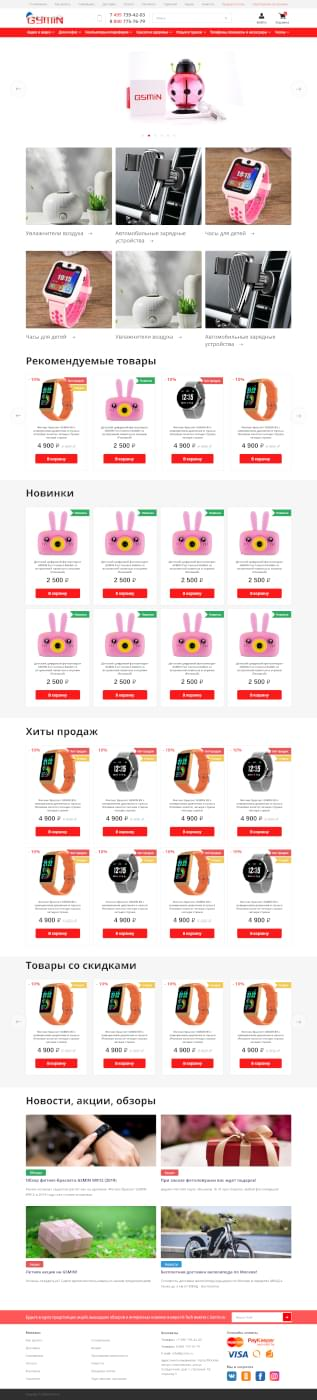
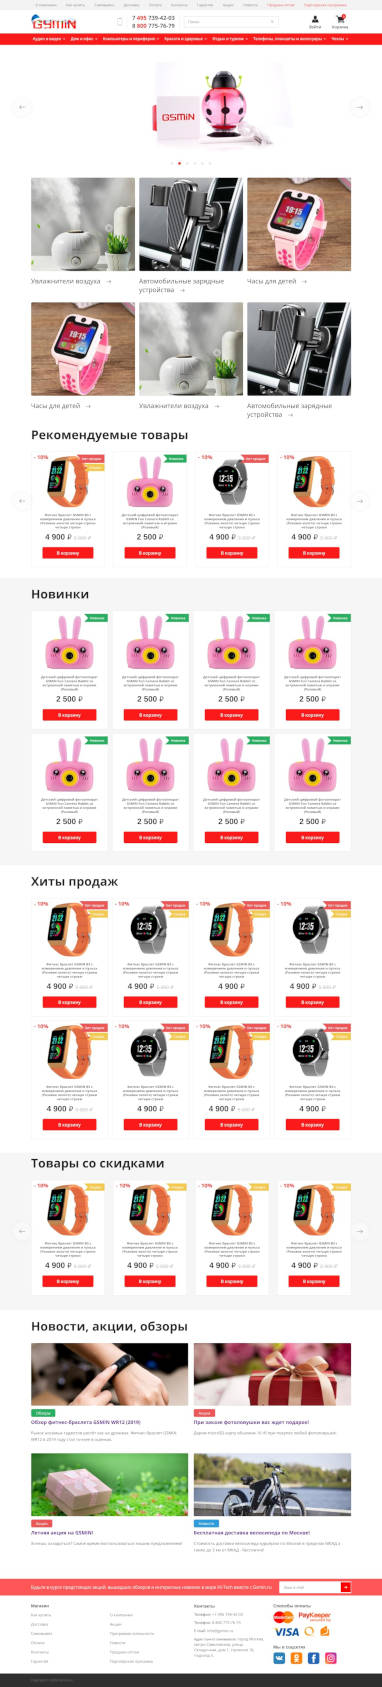
frid to flex + different titles for all .html

diff --git a/css/style.css b/css/style.css
@@ -8,7 +8,7 @@
  * 2. Prevent adjustments of font size after orientation changes in iOS.
  */
 
-html {
+ html {
   line-height: 1.15;
   /* 1 */
   -webkit-text-size-adjust: 100%;
@@ -581,11 +581,9 @@ body {
 }
 
 .item {
-  display: -ms-grid;
-  display: grid;
-  -ms-grid-rows: 1fr;
-  -ms-grid-columns: 35% 10px 1fr;
-      grid-template: 1fr / 35% 1fr;
+  display: -webkit-box;
+  display: -ms-flexbox;
+  display: flex;
   -webkit-column-gap: 10px;
      -moz-column-gap: 10px;
           column-gap: 10px;
@@ -594,13 +592,10 @@ body {
   margin: 0 0 20px 0;
 }
 
-.sites__item:last-child {
-  -ms-grid-rows: 1fr;
-  -ms-grid-columns: 1fr;
-      grid-template: 1fr / 1fr;
-}
-
 .item__image {
+  -webkit-box-flex: 0;
+      -ms-flex: 0 0 35%;
+          flex: 0 0 35%;
   overflow: hidden;
   position: relative;
 }
@@ -617,9 +612,20 @@ body {
 
 .item__description {
   padding: 10px 10px 20px 0;
-  display: -ms-grid;
-  display: grid;
+  display: -webkit-box;
+  display: -ms-flexbox;
+  display: flex;
+  -webkit-box-orient: vertical;
+  -webkit-box-direction: normal;
+      -ms-flex-direction: column;
+          flex-direction: column;
   row-gap: 10px;
+}
+
+.sites__item:last-child {
+  -webkit-box-pack: center;
+      -ms-flex-pack: center;
+          justify-content: center;
 }
 
 .item__lable {
@@ -640,27 +646,39 @@ body {
 .item__link {
   width: 120px;
   height: 25px;
-  display: -ms-grid;
-  display: grid;
+  display: -webkit-box;
+  display: -ms-flexbox;
+  display: flex;
   -webkit-box-align: center;
       -ms-flex-align: center;
           align-items: center;
-  justify-items: center;
+  -webkit-box-pack: center;
+      -ms-flex-pack: center;
+          justify-content: center;
+  margin-top: auto;
   font-size: 12px;
   color: red;
   text-transform: uppercase;
   border: 1px solid red;
   background-color: white;
   border-radius: 5px;
+  padding: 10px;
 }
 
 .item__self {
-  display: -ms-grid;
-  display: grid;
+  display: -webkit-box;
+  display: -ms-flexbox;
+  display: flex;
+  -webkit-box-orient: vertical;
+  -webkit-box-direction: normal;
+      -ms-flex-direction: column;
+          flex-direction: column;
   -webkit-box-align: center;
       -ms-flex-align: center;
           align-items: center;
-  justify-items: center;
+  -webkit-box-pack: center;
+      -ms-flex-pack: center;
+          justify-content: center;
   font-family: 'Roboto Mono', monospace;
   font-size: 18px;
   line-height: 130%;
@@ -795,15 +813,11 @@ body {
             column-gap: 20px;
   }
 
-
-
   .item__description {
     padding: 10px 10px 20px 0;
-    display: -ms-grid;
-    display: grid;
-    -ms-grid-rows: minmax(26px, auto) 10px 1fr 10px 25px;
-    -ms-grid-columns: 1fr;
-        grid-template: minmax(26px, auto) 1fr 25px/1fr;
+    display: -webkit-box;
+    display: -ms-flexbox;
+    display: flex;
     row-gap: 10px;
   }
 
@@ -845,12 +859,11 @@ body {
     margin: 0 0 40px 0;
   }
 }
-
-@media (min-width: 768px) {
+@media (hover: hover) and (pointer: fine) {
   .item__image:hover img {
-    -webkit-transition: width 5s linear;
-    -o-transition: width 5s linear;
-    transition: width 5s linear;
+    -webkit-transition: width 3s linear;
+    -o-transition: width 3s linear;
+    transition: width 3s linear;
     width: 130%;
   }
 
@@ -864,24 +877,26 @@ body {
   }
 }
 
-@media (min-width: 951px) {
+@media (min-width: 1135px) {
   .section__body {
-    display: -ms-grid;
-    display: grid;
-    -ms-grid-columns: 1fr 1fr;
-    grid-template-columns: 1fr 1fr;
-    grid-auto-rows: 1fr;
+    display: -webkit-box;
+    display: -ms-flexbox;
+    display: flex;
+    -ms-flex-wrap: wrap;
+        flex-wrap: wrap;
+    -webkit-box-pack: justify;
+        -ms-flex-pack: justify;
+            justify-content: space-between;
     -webkit-column-gap: 30px;
-       -moz-column-gap: 30px;
-            column-gap: 30px;
+    -moz-column-gap: 30px;
+         column-gap: 30px;
     row-gap: 30px;
   }
 
   .item {
-    -ms-grid-rows: 1fr;
-    -ms-grid-columns: 26% 1fr;
-        grid-template: 1fr / 26% 1fr;
-    margin: 0;
+    -webkit-box-flex: 0;
+        -ms-flex: 0 1 520px;
+            flex: 0 1 520px;
   }
 }
 

diff --git a/screen_6.html b/screen_6.html
@@ -3,7 +3,7 @@
 <head>
     <meta charset="UTF-8">
     <meta name="viewport" content="width=device-width, initial-scale=1.0">
-    <title>Портфолио: Анна Агафонова, HTML-вёрстка</title>
+    <title>Портфолио: Анна Агафонова, HTML-вёрстка. Hungry people</title>
     <link rel="stylesheet" href="css/style.css">
 </head>
 <body>

diff --git a/screen_10.html b/screen_10.html
@@ -3,7 +3,7 @@
 <head>
     <meta charset="UTF-8">
     <meta name="viewport" content="width=device-width, initial-scale=1.0">
-    <title>Портфолио: Анна Агафонова, HTML-вёрстка</title>
+    <title>Портфолио: Анна Агафонова, HTML-вёрстка. Dezinfector</title>
     <link rel="stylesheet" href="css/style.css">
 </head>
 <body>

diff --git a/screen_4.html b/screen_4.html
@@ -3,7 +3,7 @@
 <head>
     <meta charset="UTF-8">
     <meta name="viewport" content="width=device-width, initial-scale=1.0">
-    <title>Портфолио: Анна Агафонова, HTML-вёрстка</title>
+    <title>Портфолио: Анна Агафонова, HTML-вёрстка. Taxopark</title>
     <link rel="stylesheet" href="css/style.css">
 </head>
 <body>

diff --git a/screen_2.html b/screen_2.html
@@ -3,7 +3,7 @@
 <head>
     <meta charset="UTF-8">
     <meta name="viewport" content="width=device-width, initial-scale=1.0">
-    <title>Портфолио: Анна Агафонова, HTML-вёрстка</title>
+    <title>Портфолио: Анна Агафонова, HTML-вёрстка. Transys</title>
     <link rel="stylesheet" href="css/style.css">
 </head>
 <body>

diff --git a/screen_3.html b/screen_3.html
@@ -3,7 +3,7 @@
 <head>
     <meta charset="UTF-8">
     <meta name="viewport" content="width=device-width, initial-scale=1.0">
-    <title>Портфолио: Анна Агафонова, HTML-вёрстка</title>
+    <title>Портфолио: Анна Агафонова, HTML-вёрстка. Chinese</title>
     <link rel="stylesheet" href="css/style.css">
 </head>
 <body>

diff --git a/screen_11.html b/screen_11.html
@@ -3,7 +3,7 @@
 <head>
     <meta charset="UTF-8">
     <meta name="viewport" content="width=device-width, initial-scale=1.0">
-    <title>Портфолио: Анна Агафонова, HTML-вёрстка</title>
+    <title>Портфолио: Анна Агафонова, HTML-вёрстка. Iceang</title>
     <link rel="stylesheet" href="css/style.css">
 </head>
 <body>

diff --git a/screen_7.html b/screen_7.html
@@ -3,7 +3,7 @@
 <head>
     <meta charset="UTF-8">
     <meta name="viewport" content="width=device-width, initial-scale=1.0">
-    <title>Портфолио: Анна Агафонова, HTML-вёрстка</title>
+    <title>Портфолио: Анна Агафонова, HTML-вёрстка. Agency</title>
     <link rel="stylesheet" href="css/style.css">
 </head>
 <body>

diff --git a/screen_8.html b/screen_8.html
@@ -3,7 +3,7 @@
 <head>
     <meta charset="UTF-8">
     <meta name="viewport" content="width=device-width, initial-scale=1.0">
-    <title>Портфолио: Анна Агафонова, HTML-вёрстка</title>
+    <title>Портфолио: Анна Агафонова, HTML-вёрстка. Erarta</title>
     <link rel="stylesheet" href="css/style.css">
 </head>
 <body>

diff --git a/screen_1.html b/screen_1.html
@@ -3,7 +3,7 @@
 <head>
     <meta charset="UTF-8">
     <meta name="viewport" content="width=device-width, initial-scale=1.0">
-    <title>Портфолио: Анна Агафонова, HTML-вёрстка</title>
+    <title>Портфолио: Анна Агафонова, HTML-вёрстка. Gsmin</title>
     <link rel="stylesheet" href="css/style.css">
 </head>
 <body>

diff --git a/screen_5.html b/screen_5.html
@@ -3,7 +3,7 @@
 <head>
     <meta charset="UTF-8">
     <meta name="viewport" content="width=device-width, initial-scale=1.0">
-    <title>Портфолио: Анна Агафонова, HTML-вёрстка</title>
+    <title>Портфолио: Анна Агафонова, HTML-вёрстка. Dappy</title>
     <link rel="stylesheet" href="css/style.css">
 </head>
 <body>

diff --git a/screen_9.html b/screen_9.html
@@ -3,7 +3,7 @@
 <head>
     <meta charset="UTF-8">
     <meta name="viewport" content="width=device-width, initial-scale=1.0">
-    <title>Портфолио: Анна Агафонова, HTML-вёрстка</title>
+    <title>Портфолио: Анна Агафонова, HTML-вёрстка. EU</title>
     <link rel="stylesheet" href="css/style.css">
 </head>
 <body>
